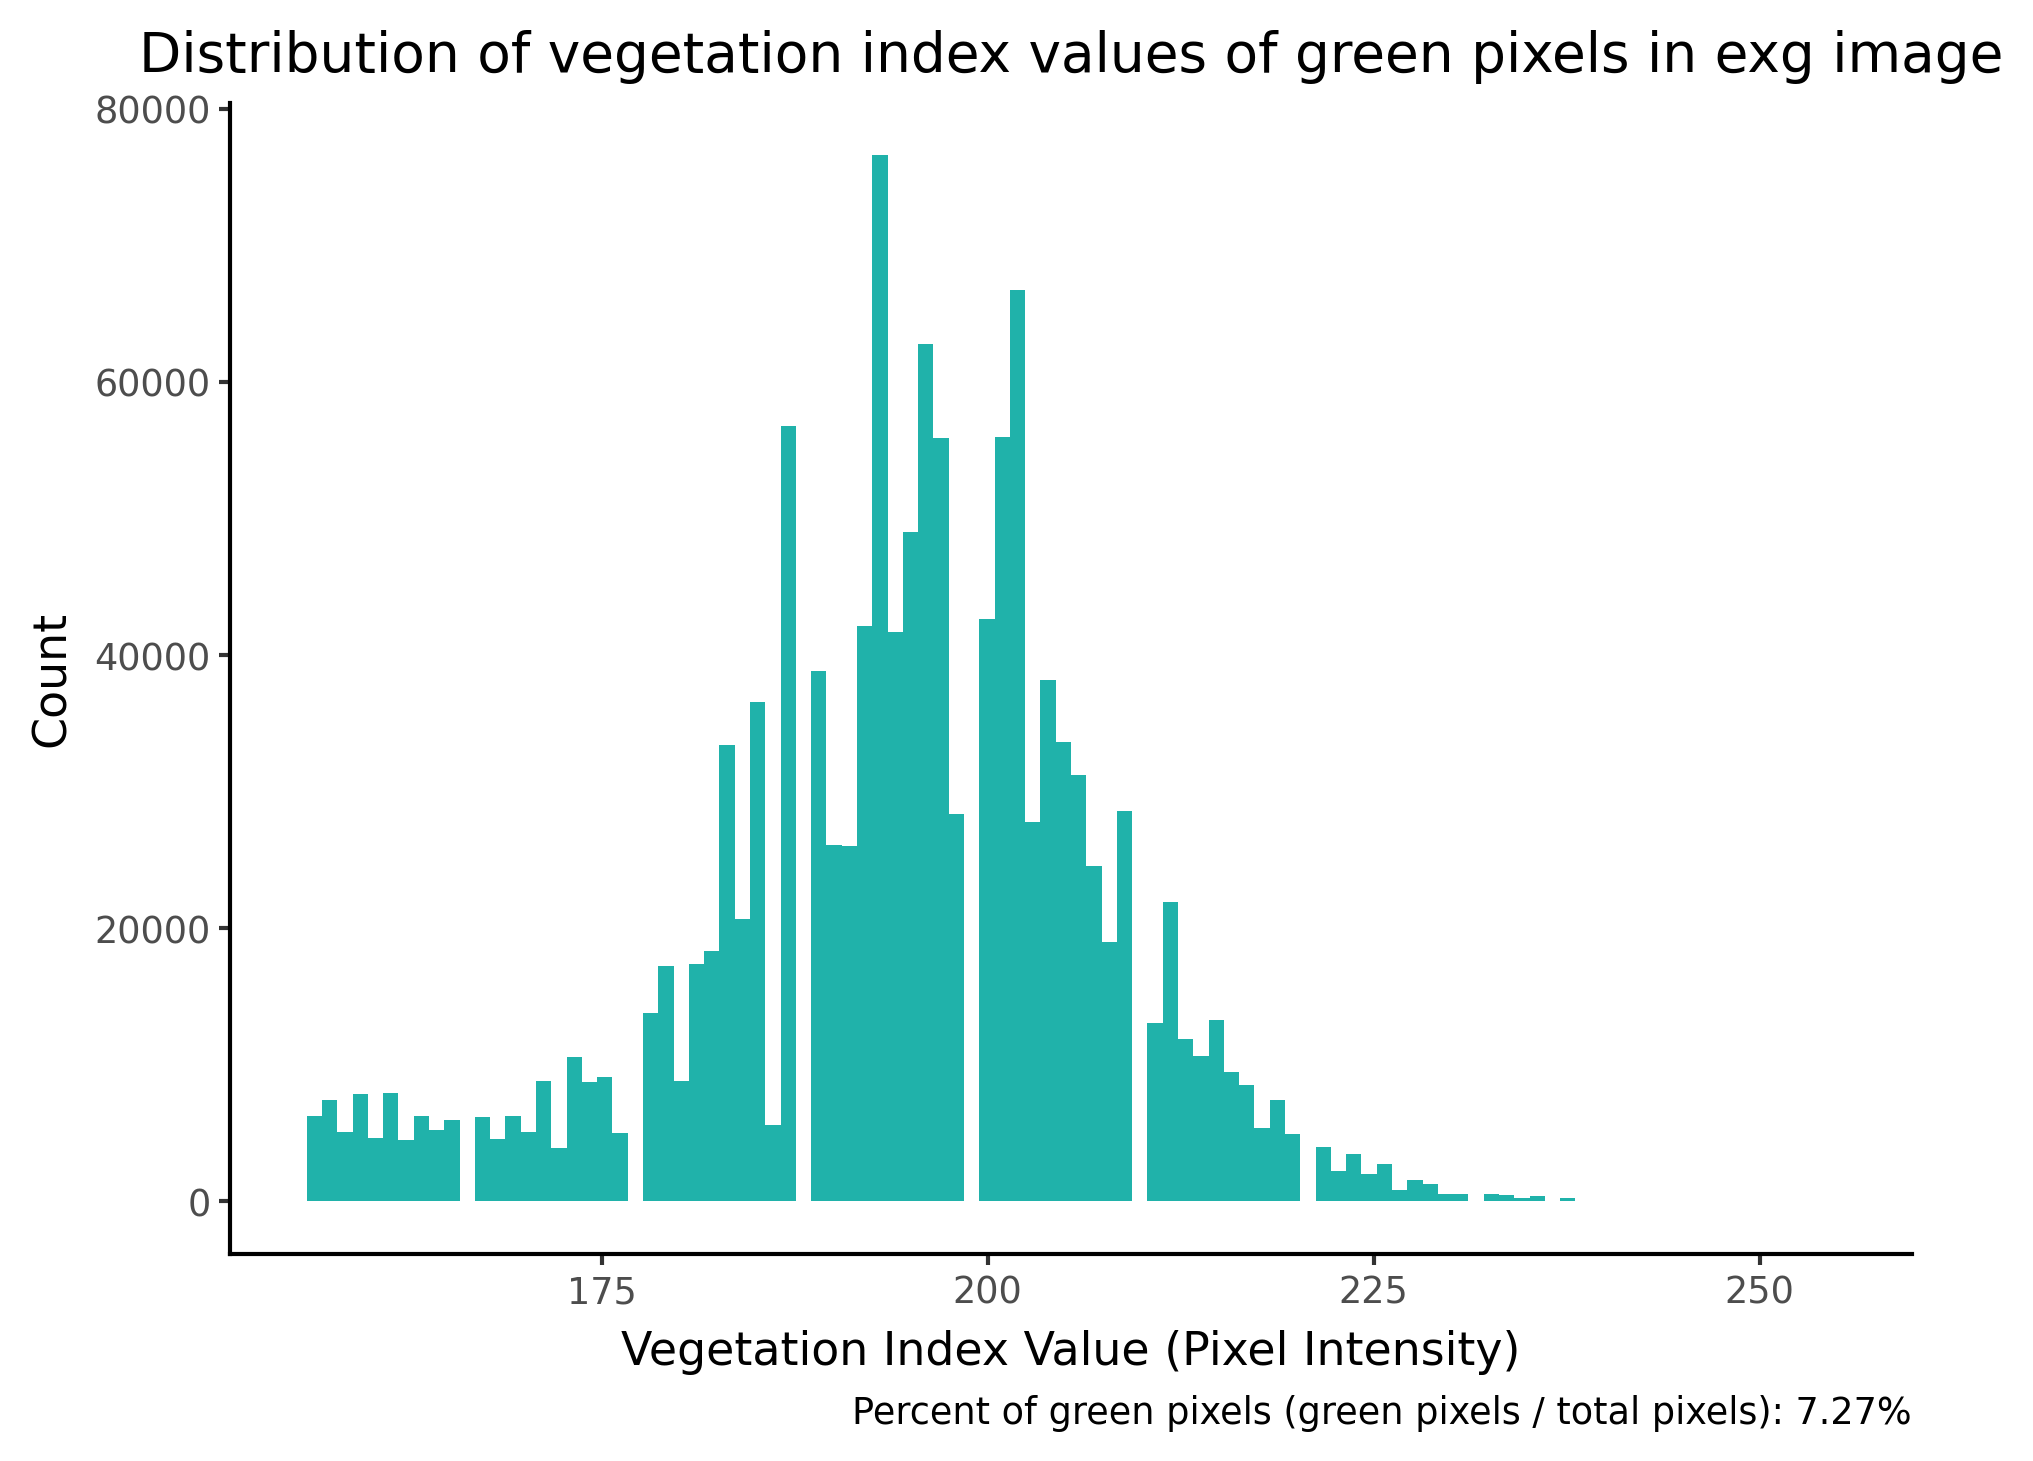
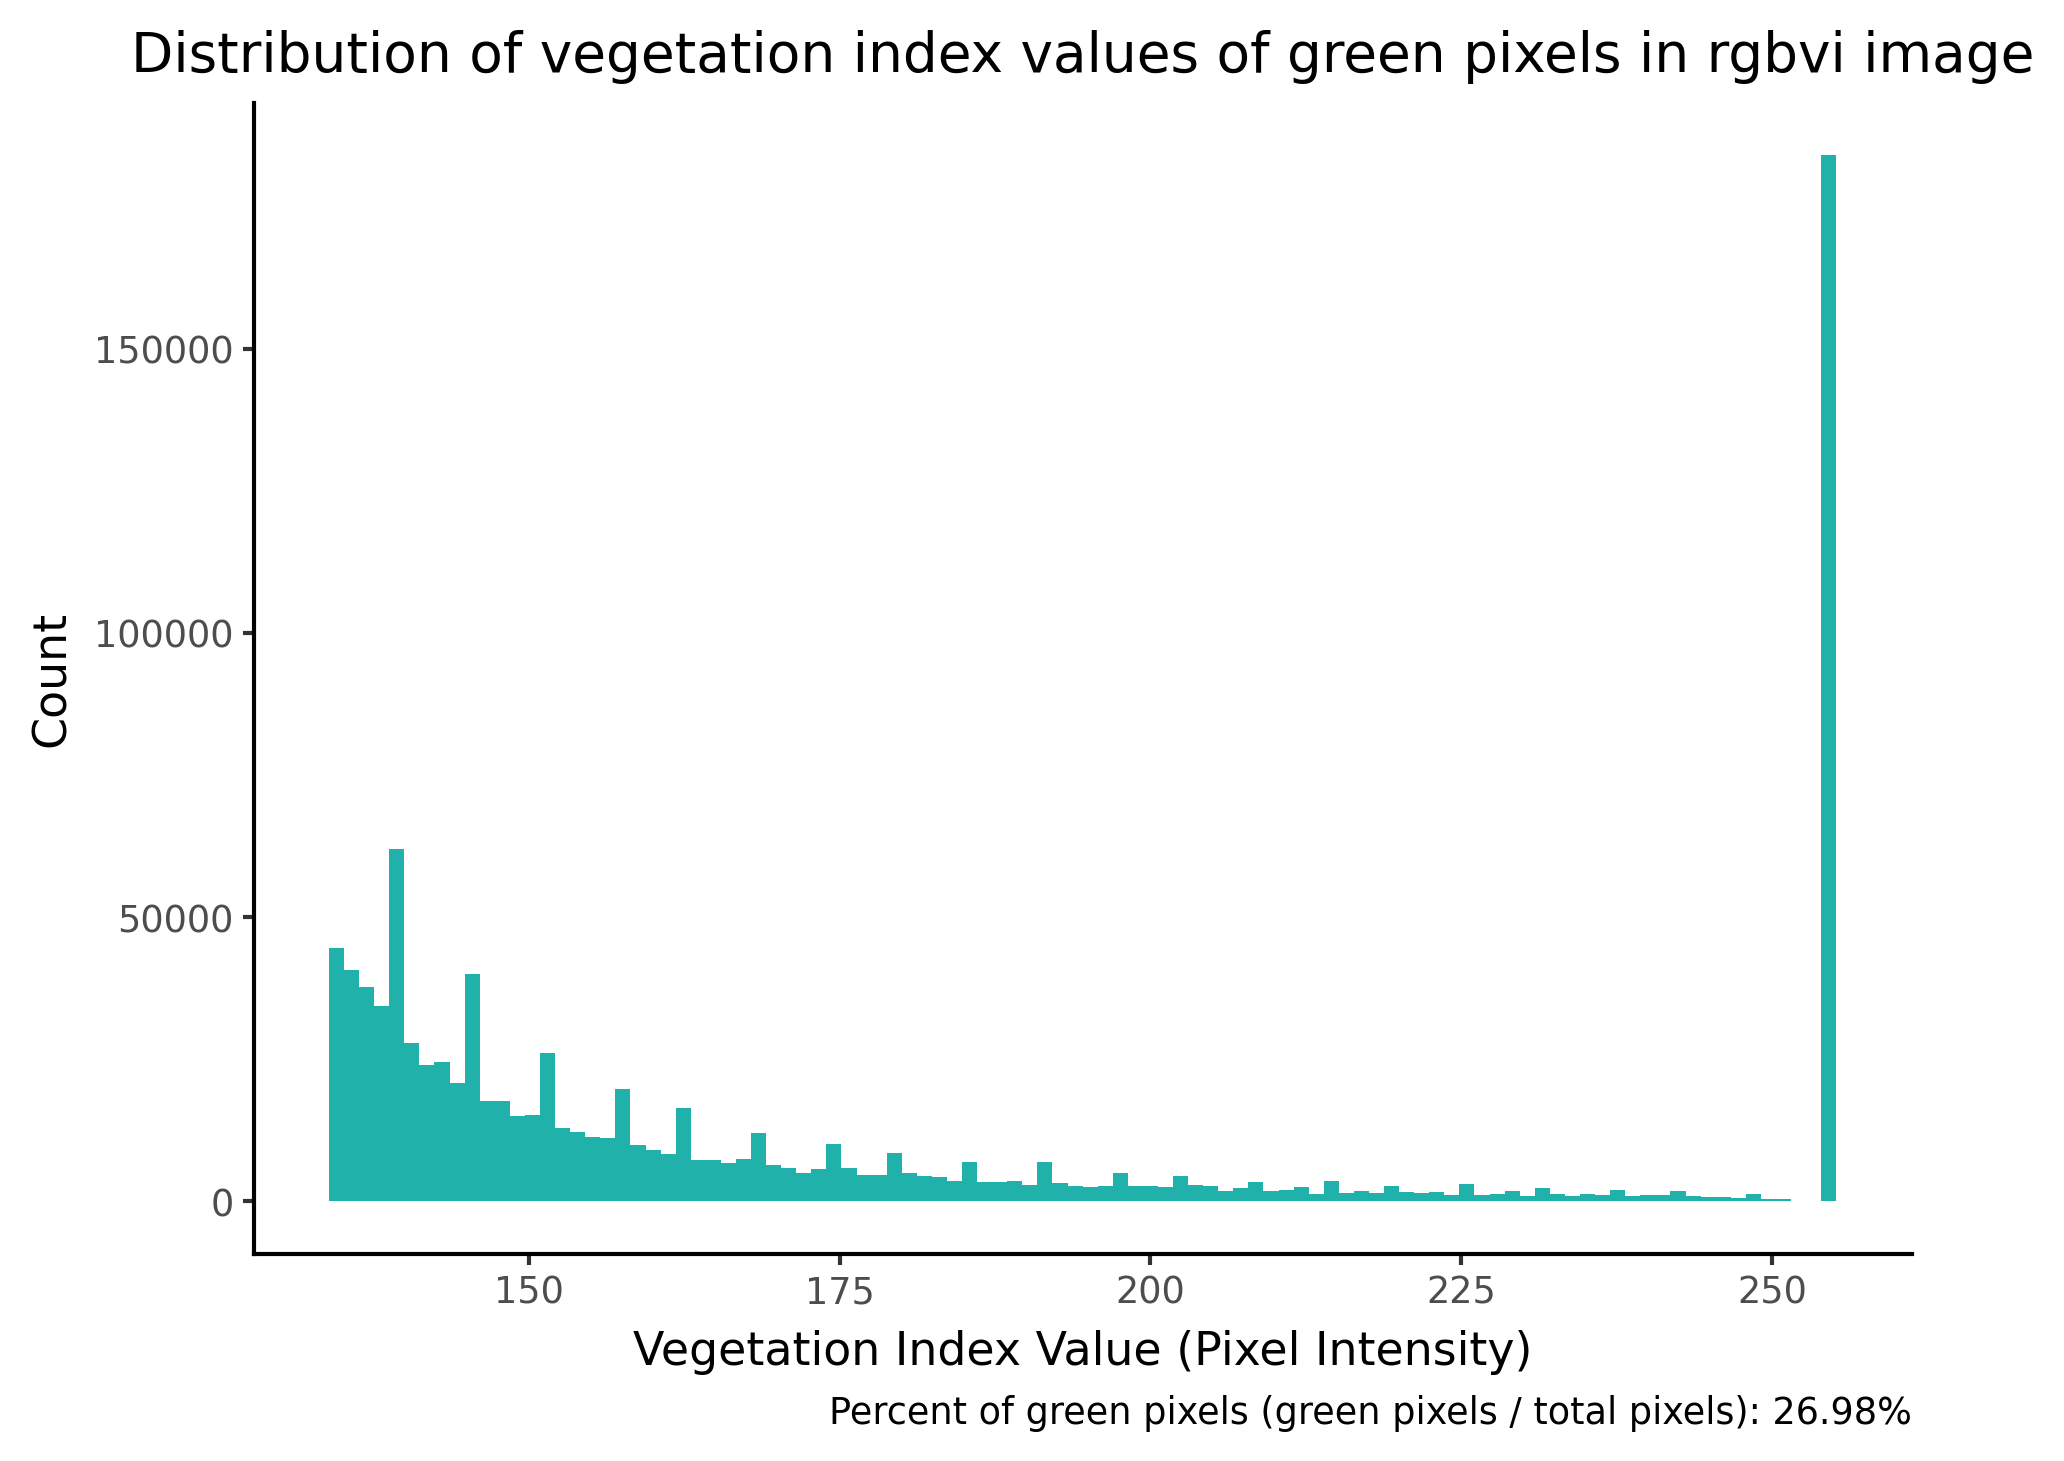
ran a test, still works post bug fix

diff --git a/master_script.py b/master_script.py
@@ -16,13 +16,13 @@ def main():
     '''
 
     # Enter parameters.
-    path = 'photos/test_photos_greenhouse/image_10.jpg' # path to input image
-    output_path = 'results/master_script_output/example_greenhouse.jpg' # output path and filename. This is where your result will be saved. 
+    path = 'photos/raw_photos_cropped/image_10.jpg' # path to input image
+    output_path = 'results/master_script_output/test.jpg' # output path and filename. This is where your result will be saved. 
     crop = False # whether your photos need to be cropped into a square or not.
     keep_cropped_image = False # If your photos get cropped, choose here whether you want the cropped image to be saved. Definitely do this if you have to crop a lot of photos at once in a for loop or something. It takes forever and you should only have to do it once. 
 
     # Determine vegetation index that will be used
-    index_type = 'exg' # RGBVI worked well for my quadrat photos, ExG worked well on the willow leaf photos - feel free to experiment
+    index_type = 'rgbvi' # RGBVI worked well for my quadrat photos, ExG worked well on the willow leaf photos - feel free to experiment
 
     # INVESTIGATE HISTOGRAM
     '''
@@ -35,12 +35,12 @@ def main():
 
     # Determine threshold that will differentiate between live and dead plants.
     # Or experiment with skimage filters like otsu and median.
-    green_threshold = 155 # 135 worked well on RGBVI photos. 155 worked well on ExG photos. 
+    green_threshold = 135 # 135 worked well on RGBVI photos. 155 worked well on ExG photos. 
 
 
     # Run the process
     if crop == False:
-        run_script(path, output_path, index_type, green_threshold, crop)
+        run_script(path, output_path, index_type, green_threshold, crop, raw_imgs_path='photos/raw_photos_numbered/image_10.jpg')
 
     elif crop == True: # Run the process, but crop the images to a square first. 
         cropped_img = run_script(path, output_path, index_type, green_threshold, crop)
